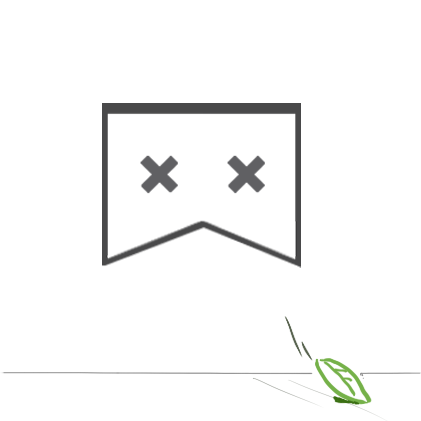
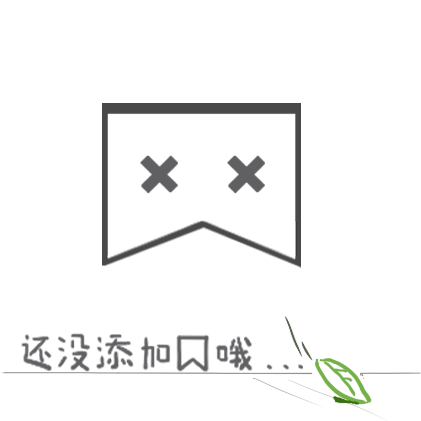
修改了三张无信息图片 & 删除了home页面的home.js冗余代码

Changed region(s): [[0.0309, 0.772, 0.6485, 0.8955], [0.6793, 0.8646, 0.7411, 0.8955]]

diff --git a/packages/home/public/assets/js/home.js b/packages/home/public/assets/js/home.js
@@ -3,121 +3,21 @@
  */
 $(window).load(function(){
     initialize();
-    commentClick();
 });
 
 //initialization
 function initialize() {
-
-    //personal-center
-    $('.personal-center-tab>ul>li:first-child').on('click touch', function(){
-        $('.personal-center-tab>ul>li').removeClass('active');
-        $(this).addClass('active');
-        $('.tab-content>div').hide();
-        $('.tab-content>div:first-child').show();
-    });
-    $('.personal-center-tab>ul>li:nth-child(2)').on('click touch', function(){
-        $('.personal-center-tab>ul>li').removeClass('active');
-        $(this).addClass('active');
-        $('.tab-content>div').hide();
-        $('.tab-content>div:nth-child(2)').show();
-    });
-    $('.personal-center-tab>ul>li:last-child').on('click touch', function(){
-        $('.personal-center-tab>ul>li').removeClass('active');
-        $(this).addClass('active');
-        $('.tab-content>div').hide();
-        $('.tab-content>div:last-child').show();
-    });
-
-    $('.edit-button').on('click', function(){
-        $(this).hide();
-        $(this).prev().hide();
-        $('.reset-name').show();
-        $('.reset-name-confirm').show();
-    });
-    //Apple-switch click effect
-    $('.toggle>.check').on('click touch', function() {
-        $(this).attr('class') === 'check'?
-            $(this).addClass('checked'):
-            $(this).removeClass('checked');
-    })
-
-    //setting-channel
-    $('.channel-inf-tab div:first-child').on('click touch', function(){
-        $('.channel-inf-tab div').removeClass('active');
-        $(this).addClass('active');
-        $('.channel-tab-content>div').hide();
-        $('.channel-tab-content>div:first-child').show();
-    });
-    $('.channel-inf-tab div:last-child').on('click touch', function(){
-        $('.channel-inf-tab div').removeClass('active');
-        $(this).addClass('active');
-        $('.channel-tab-content>div').hide();
-        $('.channel-tab-content>div:last-child').show();
-    });
     //subscription & administration button
-    $('.subscription').on('click touch', function(){
-        $('.chose-button button').removeClass('active');
-        $(this).addClass('active');
-        $('.admin-interface').hide();
-        $('.channel-list').show();
-        $('.header-setting').hide();
+    $('.subscription').on('click', function(){
+        $(this).addClass('active').next().removeClass('active');
+        $('.channel-list').show().next().hide();
     });
-    $('.administration').on('click touch', function(){
-        $('.chose-button button').removeClass('active');
-        $(this).addClass('active');
-        $('.admin-interface').show();
-        $('.channel-list').hide();
-        $('.header-setting').show();
-    });
-    //channle-setting-window
-    $('.glyphicon-cog').on('click touch', function(){
-        $('.shadow').show();
-        $('.setting-channel').show();
-    });
-    $(".content-page").scroll(function(){
-        console.log(1);
+
+    $('.administration').on('click', function(){
+        $(this).addClass('active').prev().removeClass('active');
+        $('.admin-interface').show().prev().hide();
     });
 }
-
-
-
-function commentClick() {
-    $('.comment').on('click', function(){
-        var $comment = $(this).parent().parent().next();
-        $comment.hasClass('open')?
-            $comment.removeClass('open'):
-            $comment.addClass('open');
-    });
-
-    $('.reply-key').on('click', function(){
-        $(this).parent().next().show();
-    });
-    $('.reply-button a').on('click', function() {
-        $(this).parent().parent().hide();
-    });
-    $('.bottom-comment .reply-words').on('click', function(){
-        $(this).text("");
-        $(this).next().show();
-    });
-    $('.comment-button a').on('click', function(){
-        $(this).parent().hide();
-    });
-}
-
-
-function scrollAjax() {
-    var bScroll = false;
-    $('#channel-explore').on('scroll', function() {
-        var nClientH = $(window).height();
-        var nScrollTop = $('#channel-explore').scrollTop();
-        var nChannelH = $('#channel-explore ul').height();
-        if(nClientH + nScrollTop - 80 >= nChannelH) {
-
-        }
-    });
-}
-
 
 
 
